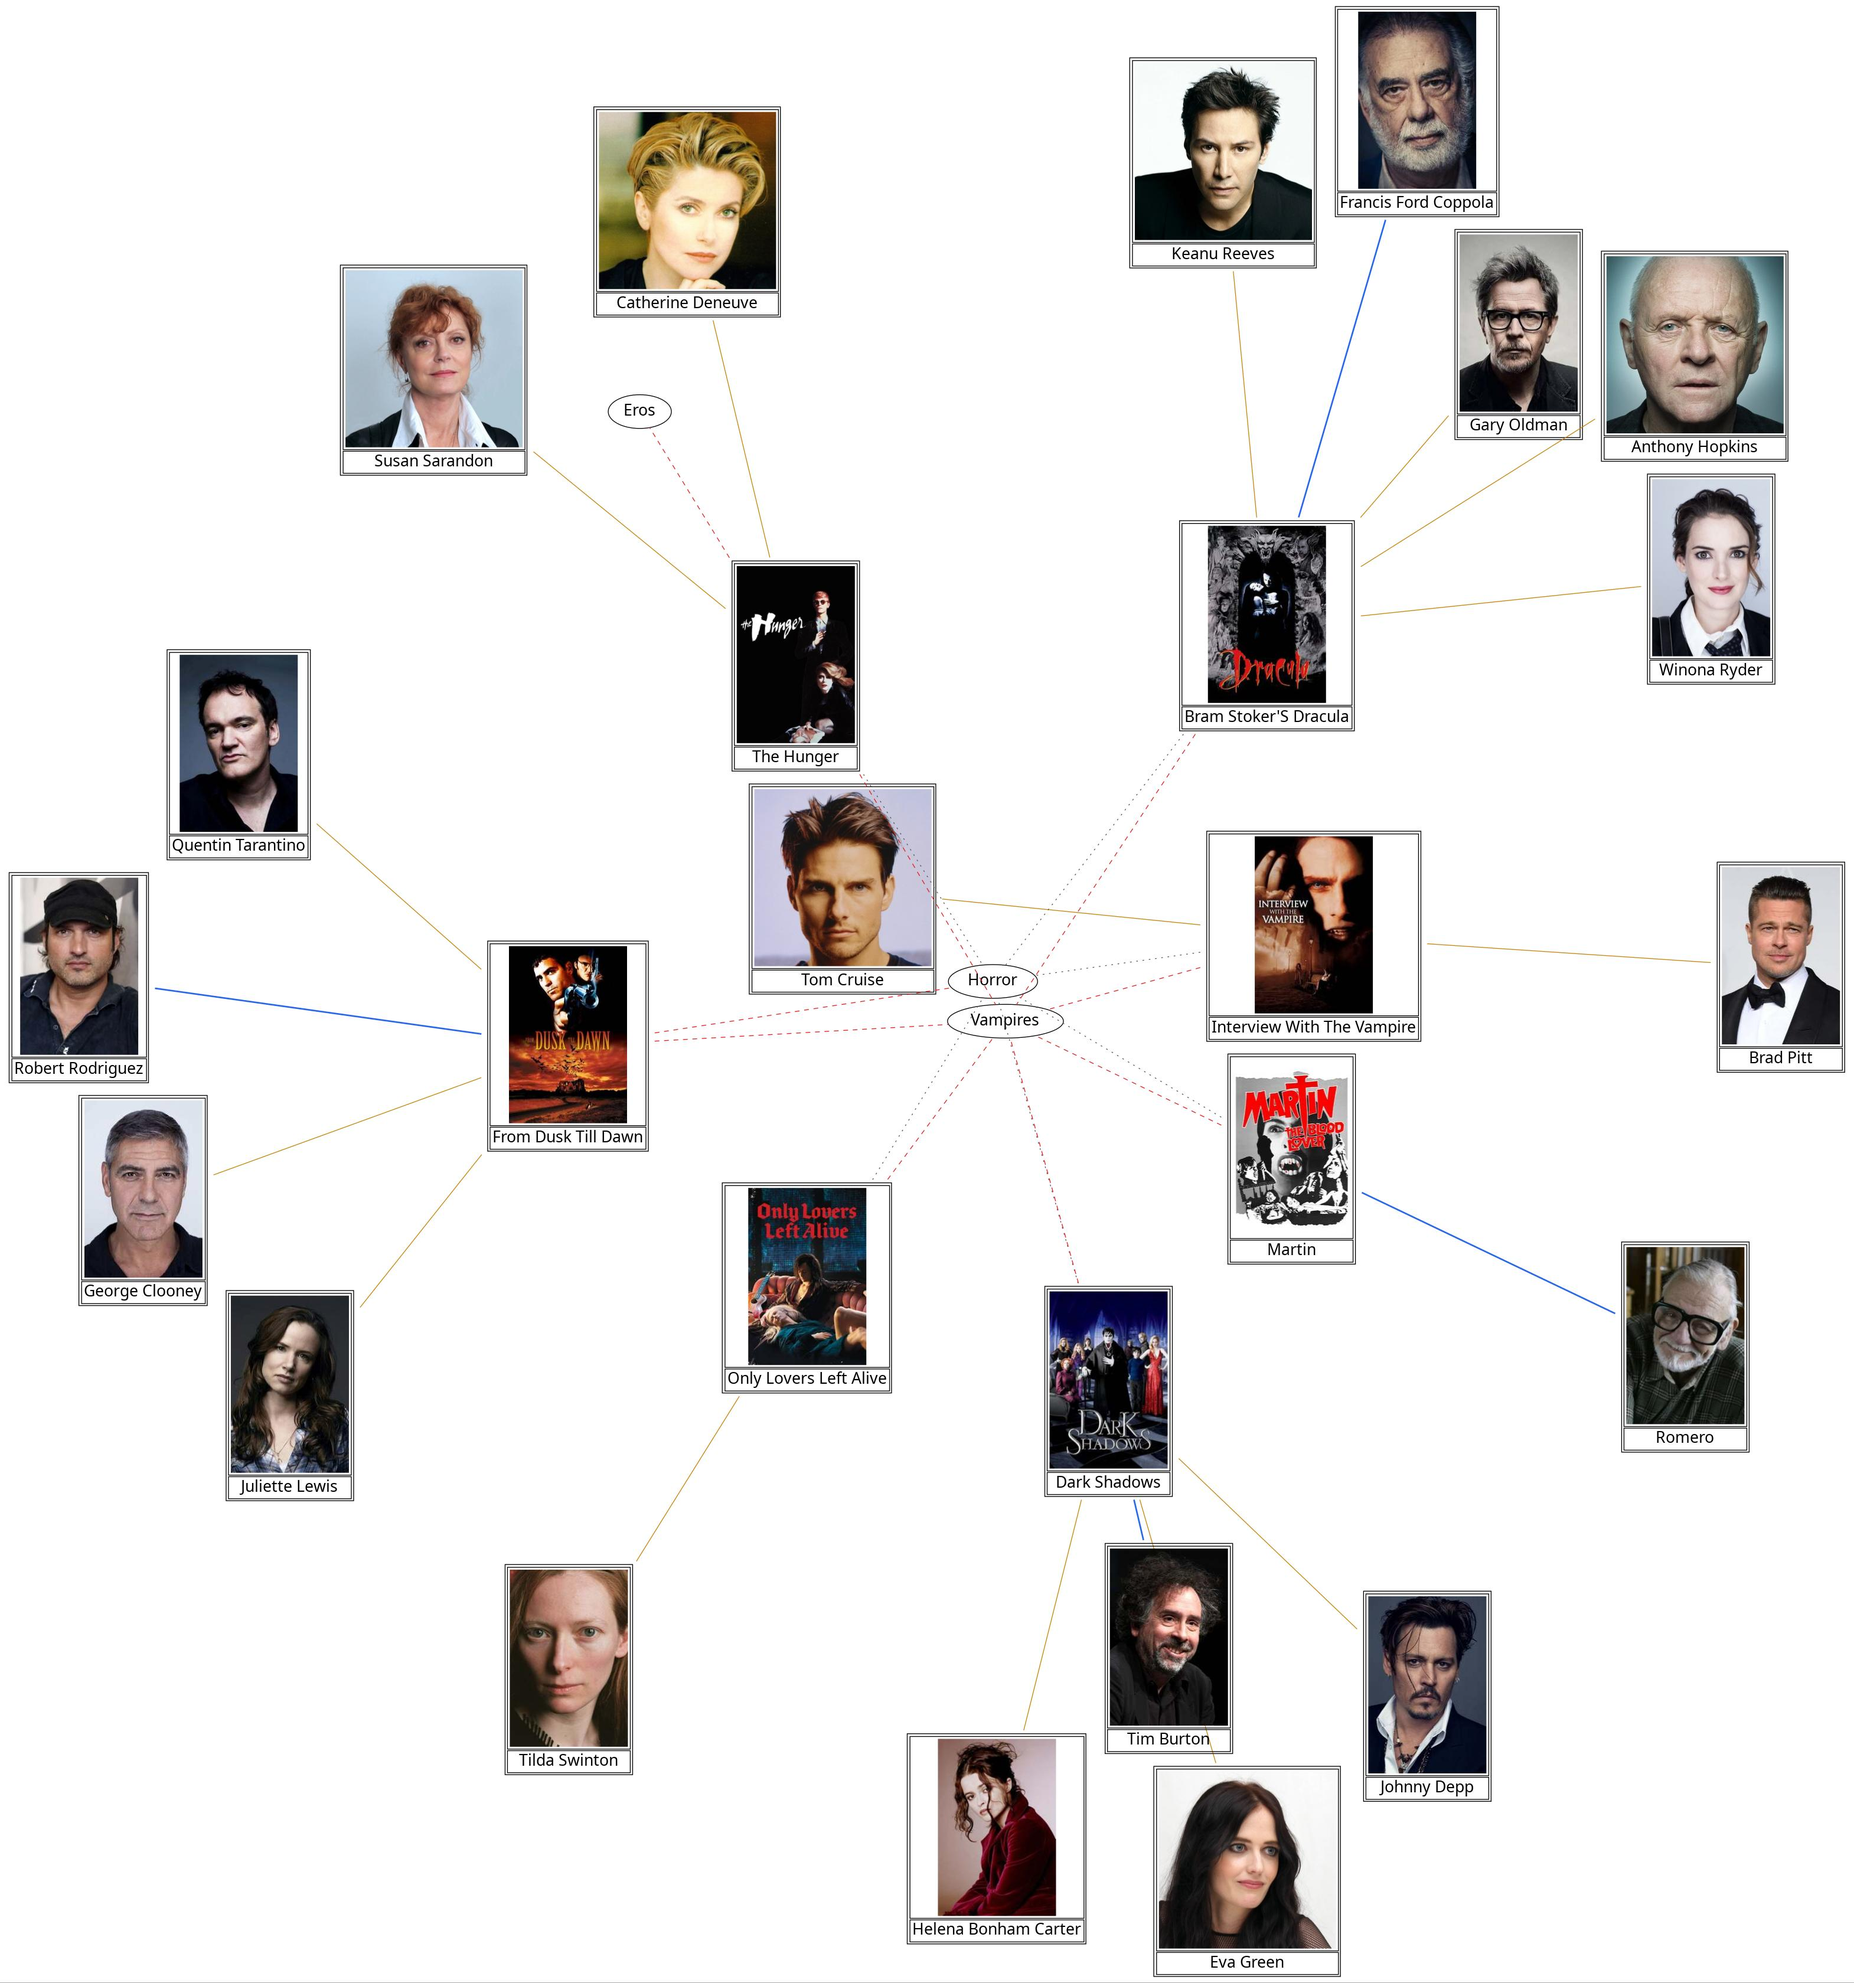
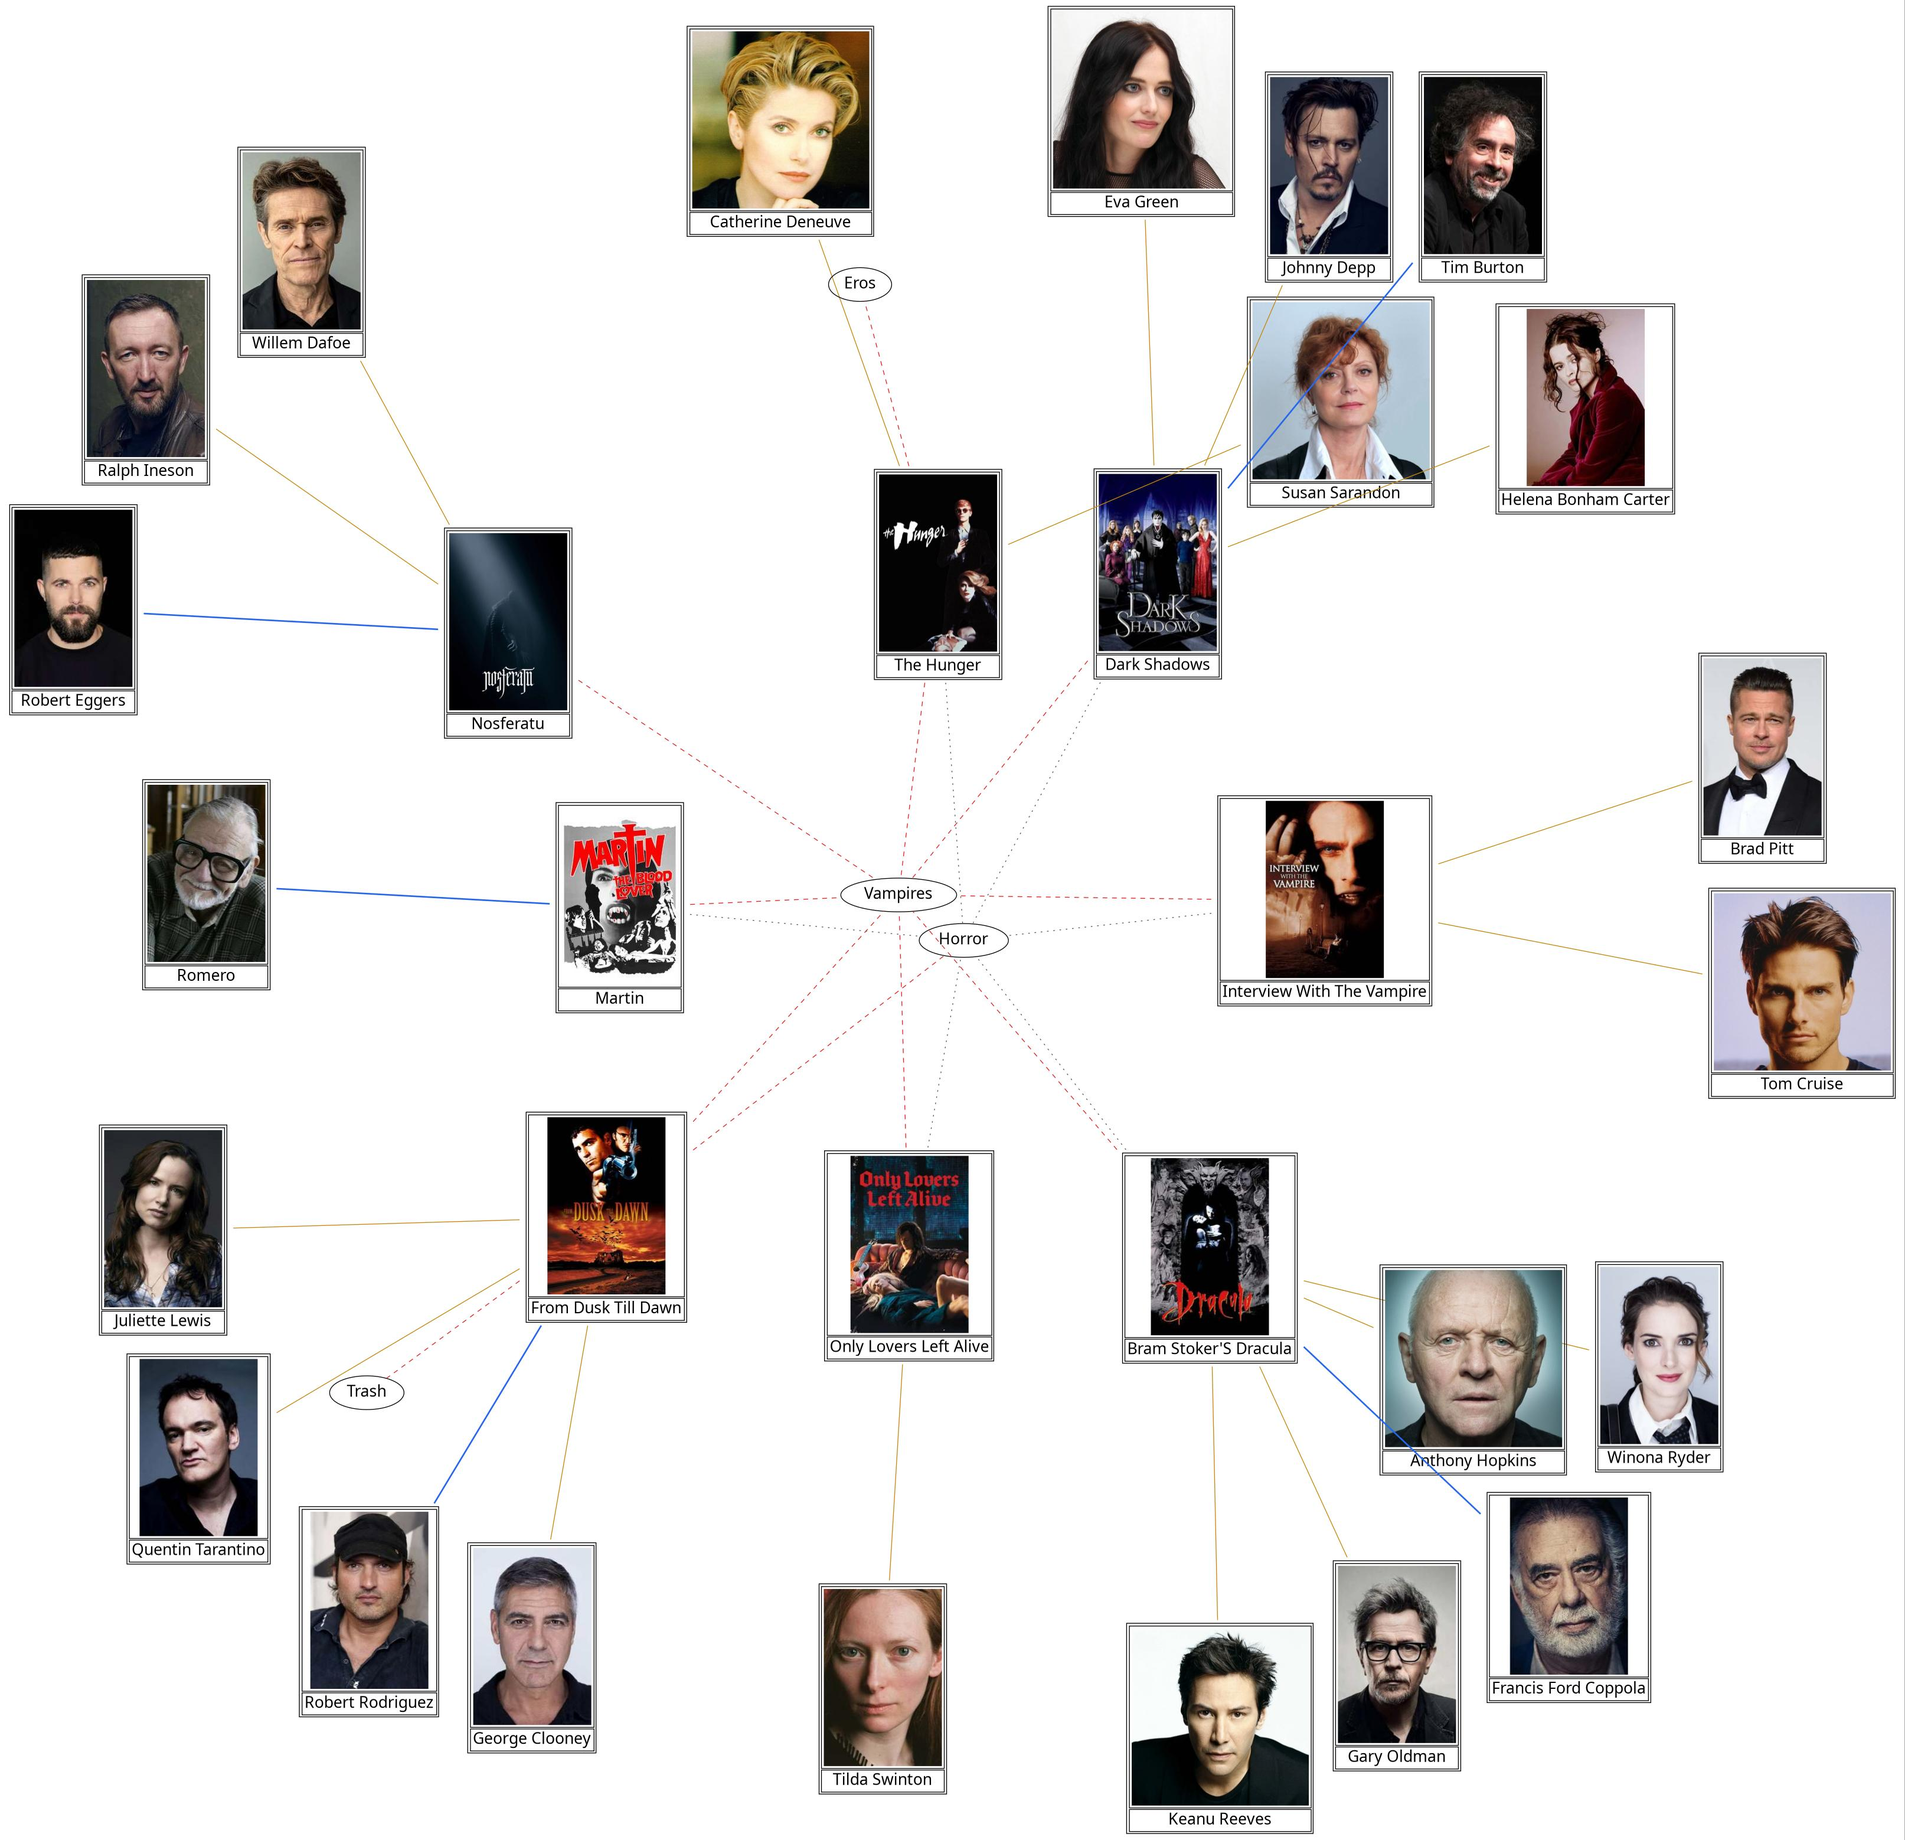
Robert Eggers, Religion, Sword and Sorcery

diff --git a/movie-maps-themes/index.html b/movie-maps-themes/index.html
@@ -65,19 +65,19 @@
     <h1></h1>
     <ul>
         
-            <li><a href="https://darkvolumes.nz/movie-maps-themes/artificial-intelligence/">Artificial-Intelligence</a></li>
+            <li><a href="https://darkvolumes.nz/movie-maps-themes/artificial-intelligence/">Artificial Intelligence</a></li>
         
             <li><a href="https://darkvolumes.nz/movie-maps-themes/british/">British</a></li>
         
-            <li><a href="https://darkvolumes.nz/movie-maps-themes/black-and-white/">Black-And-White</a></li>
+            <li><a href="https://darkvolumes.nz/movie-maps-themes/black-and-white/">Black And White</a></li>
         
-            <li><a href="https://darkvolumes.nz/movie-maps-themes/black-comedy/">Black-Comedy</a></li>
+            <li><a href="https://darkvolumes.nz/movie-maps-themes/black-comedy/">Black Comedy</a></li>
         
             <li><a href="https://darkvolumes.nz/movie-maps-themes/color/">Color</a></li>
         
             <li><a href="https://darkvolumes.nz/movie-maps-themes/danish/">Danish</a></li>
         
-            <li><a href="https://darkvolumes.nz/movie-maps-themes/disturbing-drama/">Disturbing-Drama</a></li>
+            <li><a href="https://darkvolumes.nz/movie-maps-themes/disturbing-drama/">Disturbing Drama</a></li>
         
             <li><a href="https://darkvolumes.nz/movie-maps-themes/documentary/">Documentary</a></li>
         
@@ -91,7 +91,7 @@
         
             <li><a href="https://darkvolumes.nz/movie-maps-themes/food/">Food</a></li>
         
-            <li><a href="https://darkvolumes.nz/movie-maps-themes/french-directors/">French-Directors</a></li>
+            <li><a href="https://darkvolumes.nz/movie-maps-themes/french-directors/">French Directors</a></li>
         
             <li><a href="https://darkvolumes.nz/movie-maps-themes/hacking/">Hacking</a></li>
         
@@ -99,25 +99,29 @@
         
             <li><a href="https://darkvolumes.nz/movie-maps-themes/horror/">Horror</a></li>
         
-            <li><a href="https://darkvolumes.nz/movie-maps-themes/human-dignity/">Human-Dignity</a></li>
+            <li><a href="https://darkvolumes.nz/movie-maps-themes/human-dignity/">Human Dignity</a></li>
         
-            <li><a href="https://darkvolumes.nz/movie-maps-themes/italian-directors/">Italian-Directors</a></li>
+            <li><a href="https://darkvolumes.nz/movie-maps-themes/italian-directors/">Italian Directors</a></li>
         
             <li><a href="https://darkvolumes.nz/movie-maps-themes/math/">Math</a></li>
         
-            <li><a href="https://darkvolumes.nz/movie-maps-themes/middle-age/">Middle-Age</a></li>
+            <li><a href="https://darkvolumes.nz/movie-maps-themes/middle-age/">Middle Age</a></li>
         
             <li><a href="https://darkvolumes.nz/movie-maps-themes/music/">Music</a></li>
         
             <li><a href="https://darkvolumes.nz/movie-maps-themes/neo-noir/">Neo-Noir</a></li>
         
-            <li><a href="https://darkvolumes.nz/movie-maps-themes/period-drama/">Period-Drama</a></li>
+            <li><a href="https://darkvolumes.nz/movie-maps-themes/period-drama/">Period Drama</a></li>
         
-            <li><a href="https://darkvolumes.nz/movie-maps-themes/return-to-nature/">Return-To-Nature</a></li>
+            <li><a href="https://darkvolumes.nz/movie-maps-themes/religion/">Religion</a></li>
+        
+            <li><a href="https://darkvolumes.nz/movie-maps-themes/return-to-nature/">Return To Nature</a></li>
         
             <li><a href="https://darkvolumes.nz/movie-maps-themes/school/">School</a></li>
         
-            <li><a href="https://darkvolumes.nz/movie-maps-themes/social-criticism/">Social-Criticism</a></li>
+            <li><a href="https://darkvolumes.nz/movie-maps-themes/social-criticism/">Social Criticism</a></li>
+        
+            <li><a href="https://darkvolumes.nz/movie-maps-themes/sword-and-sorcery/">Sword And Sorcery</a></li>
         
     </ul>
 </div>

diff --git a/movie-maps-directors/untitled/index.html b/movie-maps-directors/untitled/index.html
@@ -1,9 +1,9 @@
 <!DOCTYPE html>
-<html><head>
+<html><head><script src="/livereload.js?mindelay=10&amp;v=2&amp;port=1313&amp;path=livereload" data-no-instant defer></script>
     <meta charset="utf-8">
     <meta name="viewport" content="width=device-width, initial-scale=1, shrink-to-fit=no">
 
-    <title>Disturbing Drama</title>
+    <title></title>
     <meta name="description" content="">
     <meta name="author" content=''>
 
@@ -17,7 +17,7 @@
 </head>
 <body><div class="container mt-5">
     <nav class="navbar navbar-expand-sm flex-column flex-sm-row p-0">
-        <a class="navbar-brand mr-sm-auto" href="https://darkvolumes.nz/">darkvolumes</a>
+        <a class="navbar-brand mr-sm-auto" href="http://localhost:1313/">darkvolumes</a>
         <div class="navbar-nav flex-row">
             
                 
@@ -62,11 +62,7 @@
 <hr>
 <div id="content">
 <div class="container">
-    <h2 id="disturbing-drama">Disturbing Drama</h2>
-<figure class="moviemap"><img src="/movies/themes/Disturbing-Drama.jpg">
-</figure>
-
-
+    
 </div>
 
         </div>

diff --git a/movie-maps-themes/untitled/index.html b/movie-maps-themes/untitled/index.html
@@ -1,9 +1,9 @@
 <!DOCTYPE html>
-<html><head>
+<html><head><script src="/livereload.js?mindelay=10&amp;v=2&amp;port=1313&amp;path=livereload" data-no-instant defer></script>
     <meta charset="utf-8">
     <meta name="viewport" content="width=device-width, initial-scale=1, shrink-to-fit=no">
 
-    <title>Disturbing Drama</title>
+    <title></title>
     <meta name="description" content="">
     <meta name="author" content=''>
 
@@ -17,7 +17,7 @@
 </head>
 <body><div class="container mt-5">
     <nav class="navbar navbar-expand-sm flex-column flex-sm-row p-0">
-        <a class="navbar-brand mr-sm-auto" href="https://darkvolumes.nz/">darkvolumes</a>
+        <a class="navbar-brand mr-sm-auto" href="http://localhost:1313/">darkvolumes</a>
         <div class="navbar-nav flex-row">
             
                 
@@ -62,11 +62,7 @@
 <hr>
 <div id="content">
 <div class="container">
-    <h2 id="disturbing-drama">Disturbing Drama</h2>
-<figure class="moviemap"><img src="/movies/themes/Disturbing-Drama.jpg">
-</figure>
-
-
+    
 </div>
 
         </div>

diff --git a/movie-maps-themes/sword-and-sorcery/index.html b/movie-maps-themes/sword-and-sorcery/index.html
@@ -3,7 +3,7 @@
     <meta charset="utf-8">
     <meta name="viewport" content="width=device-width, initial-scale=1, shrink-to-fit=no">
 
-    <title>Disturbing Drama</title>
+    <title>Sword And Sorcery</title>
     <meta name="description" content="">
     <meta name="author" content=''>
 
@@ -62,8 +62,8 @@
 <hr>
 <div id="content">
 <div class="container">
-    <h2 id="disturbing-drama">Disturbing Drama</h2>
-<figure class="moviemap"><img src="/movies/themes/Disturbing-Drama.jpg">
+    <h2 id="sword-and-sorcery">Sword And Sorcery</h2>
+<figure class="moviemap"><img src="/movies/themes/Sword-And-Sorcery.jpg">
 </figure>
 
 

diff --git a/movie-maps-directors/robert-eggers/index.html b/movie-maps-directors/robert-eggers/index.html
@@ -3,7 +3,7 @@
     <meta charset="utf-8">
     <meta name="viewport" content="width=device-width, initial-scale=1, shrink-to-fit=no">
 
-    <title>Disturbing Drama</title>
+    <title>Robert Eggers</title>
     <meta name="description" content="">
     <meta name="author" content=''>
 
@@ -62,8 +62,8 @@
 <hr>
 <div id="content">
 <div class="container">
-    <h2 id="disturbing-drama">Disturbing Drama</h2>
-<figure class="moviemap"><img src="/movies/themes/Disturbing-Drama.jpg">
+    <h2 id="robert-eggers">Robert Eggers</h2>
+<figure class="moviemap"><img src="/movies/directors/Robert-Eggers.jpg">
 </figure>
 
 

diff --git a/movie-maps-themes/artificial-intelligence/index.html b/movie-maps-themes/artificial-intelligence/index.html
@@ -3,7 +3,7 @@
     <meta charset="utf-8">
     <meta name="viewport" content="width=device-width, initial-scale=1, shrink-to-fit=no">
 
-    <title>Artificial-Intelligence</title>
+    <title>Artificial Intelligence</title>
     <meta name="description" content="">
     <meta name="author" content=''>
 
@@ -62,7 +62,7 @@
 <hr>
 <div id="content">
 <div class="container">
-    <h2 id="artificial-intelligence">Artificial-Intelligence</h2>
+    <h2 id="artificial-intelligence">Artificial Intelligence</h2>
 <figure class="moviemap"><img src="/movies/themes/Artificial-Intelligence.jpg">
 </figure>
 

diff --git a/movie-maps-themes/religion/index.html b/movie-maps-themes/religion/index.html
@@ -3,7 +3,7 @@
     <meta charset="utf-8">
     <meta name="viewport" content="width=device-width, initial-scale=1, shrink-to-fit=no">
 
-    <title>Disturbing Drama</title>
+    <title>Religion</title>
     <meta name="description" content="">
     <meta name="author" content=''>
 
@@ -62,8 +62,8 @@
 <hr>
 <div id="content">
 <div class="container">
-    <h2 id="disturbing-drama">Disturbing Drama</h2>
-<figure class="moviemap"><img src="/movies/themes/Disturbing-Drama.jpg">
+    <h2 id="religion">Religion</h2>
+<figure class="moviemap"><img src="/movies/themes/Religion.jpg">
 </figure>
 
 

diff --git a/movie-maps-themes/italian-directors/index.html b/movie-maps-themes/italian-directors/index.html
@@ -3,7 +3,7 @@
     <meta charset="utf-8">
     <meta name="viewport" content="width=device-width, initial-scale=1, shrink-to-fit=no">
 
-    <title>Italian-Directors</title>
+    <title>Italian Directors</title>
     <meta name="description" content="">
     <meta name="author" content=''>
 
@@ -62,7 +62,7 @@
 <hr>
 <div id="content">
 <div class="container">
-    <h2 id="italian-directors">Italian-Directors</h2>
+    <h2 id="italian-directors">Italian Directors</h2>
 <figure class="moviemap"><img src="/movies/themes/Italian-Directors.jpg">
 </figure>
 

diff --git a/movie-maps-themes/french-directors/index.html b/movie-maps-themes/french-directors/index.html
@@ -3,7 +3,7 @@
     <meta charset="utf-8">
     <meta name="viewport" content="width=device-width, initial-scale=1, shrink-to-fit=no">
 
-    <title>French-Directors</title>
+    <title>French Directors</title>
     <meta name="description" content="">
     <meta name="author" content=''>
 
@@ -62,7 +62,7 @@
 <hr>
 <div id="content">
 <div class="container">
-    <h2 id="french-directors">French-Directors</h2>
+    <h2 id="french-directors">French Directors</h2>
 <figure class="moviemap"><img src="/movies/themes/French-Directors.jpg">
 </figure>
 

diff --git a/movie-maps-themes/return-to-nature/index.html b/movie-maps-themes/return-to-nature/index.html
@@ -3,7 +3,7 @@
     <meta charset="utf-8">
     <meta name="viewport" content="width=device-width, initial-scale=1, shrink-to-fit=no">
 
-    <title>Return-To-Nature</title>
+    <title>Return To Nature</title>
     <meta name="description" content="">
     <meta name="author" content=''>
 
@@ -62,7 +62,7 @@
 <hr>
 <div id="content">
 <div class="container">
-    <h2 id="return-to-nature">Return-To-Nature</h2>
+    <h2 id="return-to-nature">Return To Nature</h2>
 <figure class="moviemap"><img src="/movies/themes/Return-To-Nature.jpg">
 </figure>
 

diff --git a/movie-maps-themes/social-criticism/index.html b/movie-maps-themes/social-criticism/index.html
@@ -3,7 +3,7 @@
     <meta charset="utf-8">
     <meta name="viewport" content="width=device-width, initial-scale=1, shrink-to-fit=no">
 
-    <title>Social-Criticism</title>
+    <title>Social Criticism</title>
     <meta name="description" content="">
     <meta name="author" content=''>
 
@@ -62,7 +62,7 @@
 <hr>
 <div id="content">
 <div class="container">
-    <h2 id="social-criticism">Social-Criticism</h2>
+    <h2 id="social-criticism">Social Criticism</h2>
 <figure class="moviemap"><img src="/movies/themes/Social-Criticism.jpg">
 </figure>
 

diff --git a/movie-maps-themes/black-and-white/index.html b/movie-maps-themes/black-and-white/index.html
@@ -3,7 +3,7 @@
     <meta charset="utf-8">
     <meta name="viewport" content="width=device-width, initial-scale=1, shrink-to-fit=no">
 
-    <title>Black-And-White</title>
+    <title>Black And White</title>
     <meta name="description" content="">
     <meta name="author" content=''>
 
@@ -62,7 +62,7 @@
 <hr>
 <div id="content">
 <div class="container">
-    <h2 id="black-and-white">Black-And-White</h2>
+    <h2 id="black-and-white">Black And White</h2>
 <figure class="moviemap"><img src="/movies/themes/Black-And-White.jpg">
 </figure>
 
